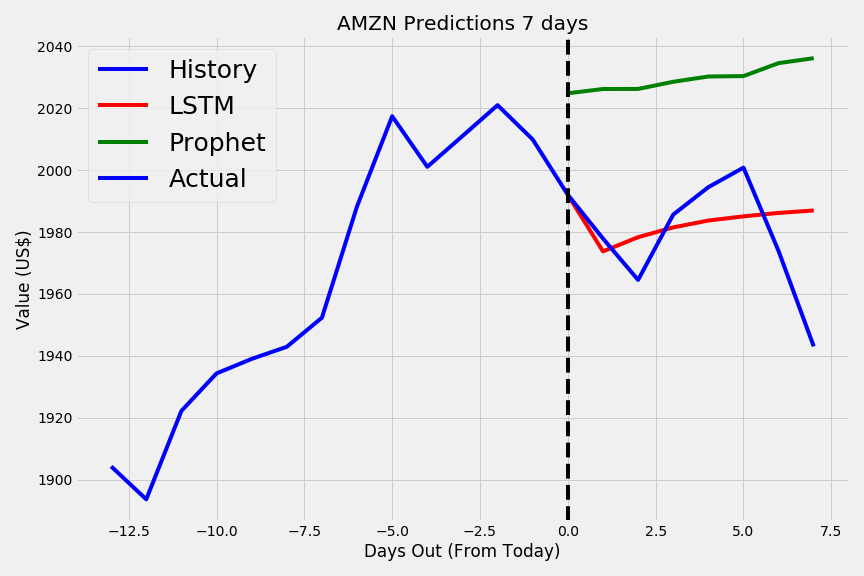
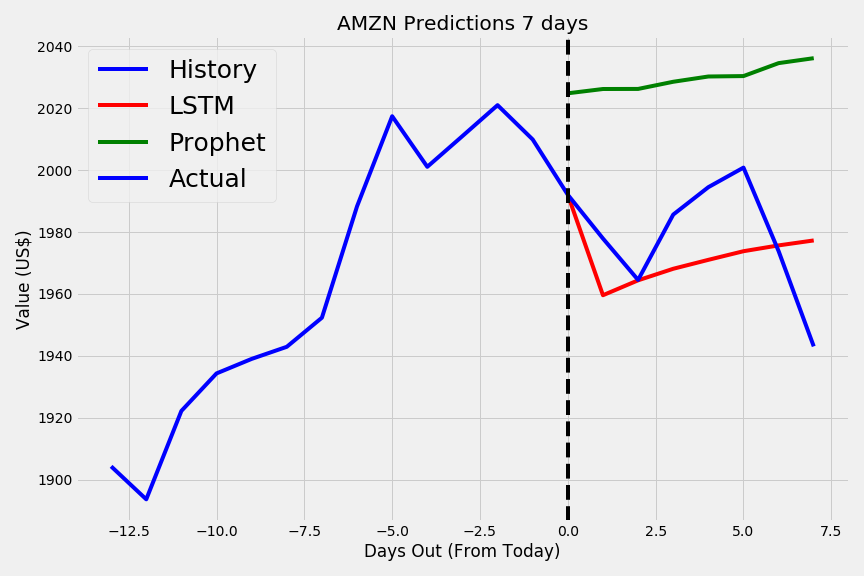
code review:

Changed region(s): [[0.75, 0.3438, 0.9375, 0.4688], [0.6562, 0.3438, 0.75, 0.4688], [0.6875, 0.4688, 0.7812, 0.5312]]

diff --git a/src/RMSE.py b/src/RMSE.py
@@ -1,0 +1,67 @@
+#!/usr/bin/env python3
+# -*- coding: utf-8 -*-
+"""
+Created on Mon Jul 29 13:49:58 2019
+
+@author: seth
+"""
+# Gets RMSE for EDA and readme
+
+from LSTMClass import LSTMClass as LSTMPrediction
+from ProphetClass import ProhetClass as ProhetPrediction
+from gather_data import get_data
+import numpy as np
+
+
+def rmse(predictions,targets):
+    """
+    Get the RMSE values for specified predictions,
+
+    Attributes:
+        predidctions (list): list of predictions from model
+        targets      (list): the real values of the data
+    
+    Returns:
+        RMSE (int) value of RMSE score
+    """
+    return np.sqrt(np.mean((predictions-targets)**2))
+
+
+google, microsoft, apple, jnj, amazon = get_data()
+
+
+lap30 = LSTMPrediction(apple, 'APPL', 30)
+pap30 = ProhetPrediction(apple, 'AAPL', 30)
+
+lam30 = LSTMPrediction(amazon, 'AMZN', 30)
+pam30 = ProhetPrediction(amazon, 'AMZN', 30)
+
+lgo30 = LSTMPrediction(google, 'GOOGL', 30)
+pgo30 = ProhetPrediction(google, 'GOOGL', 30)
+
+ljj30 = LSTMPrediction(jnj, 'JNJ', 30)
+pjj30 = ProhetPrediction(jnj, 'JNJ', 30)
+
+lms30 = LSTMPrediction(microsoft, 'MSFT', 30)
+pms30 = ProhetPrediction(microsoft, 'MSFT', 30)
+
+dictionary = {}
+
+helper = [
+              [lap30, pap30, 'APPL', 30],
+
+              [lam30, pam30, 'AMZN', 30],
+
+              [lgo30, pgo30, 'GOOG', 30],
+
+              [ljj30, pjj30, 'JNJ', 30],
+
+              [lms30, pms30, 'MSFT', 30]]
+
+for i in helper:
+    lstmp = i[0].predictions[-(i[3]+1):].values
+    propp = i[1].forecast.yhat[-(i[3]+1):].values
+    real = i[0].actuals
+    dictionary['LSTM'+i[2]] = rmse(lstmp,real)
+    dictionary['Prophet'+i[2]] = rmse(propp,real)
+    

diff --git a/src/LSTMClass.py b/src/LSTMClass.py
@@ -73,7 +73,7 @@ class LSTMClass():
         model.add(Dense(1))
 
         model.compile(loss=root_mean_squared_error, optimizer='adam')
-        model.fit(self.X_train, self.y_train, epochs=1, batch_size=32)
+        model.fit(self.X_train, self.y_train, epochs=1, batch_size=252)
 
         predictions = self.feed.close[-(self.days*5):]
         for i in range(self.days):

diff --git a/src/LSTMPrediction.py b/src/LSTMPrediction.py
@@ -69,7 +69,7 @@ class LSTMPrediction():
         model.add(Dense(1))
 
         model.compile(loss=root_mean_squared_error, optimizer='adam')
-        model.fit(self.X, self.y, epochs=1, batch_size=32)
+        model.fit(self.X, self.y, epochs=1, batch_size=252)
 
         predictions = self.data.close[-(self.days*5):]
         for i in range(self.days):

diff --git a/src/EDAPlots.py b/src/EDAPlots.py
@@ -108,3 +108,4 @@ def build_plots():
         plt.ylabel('Value (US$)')
         plt.savefig('../img/EDA/' + i[0] + '_EDA.png')
         plt.close()
+
